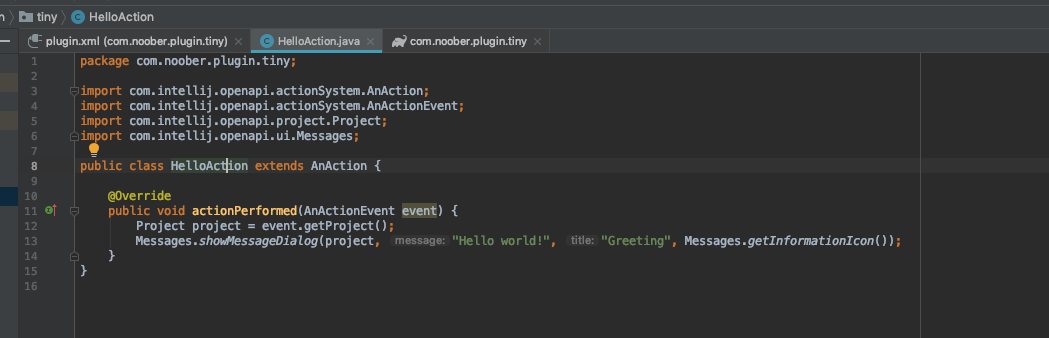
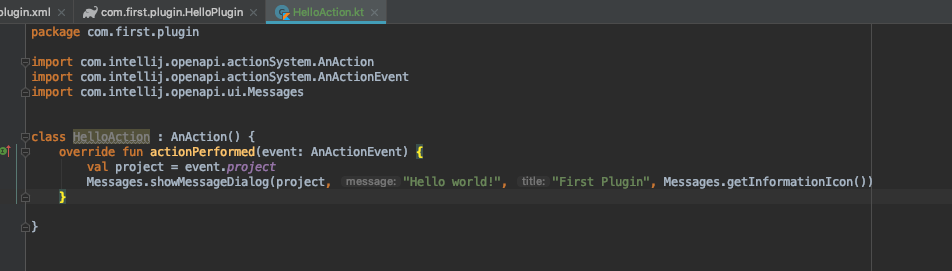
增加HelloAction

diff --git a/src/main/java/com/first/plugin/HelloAction.kt b/src/main/java/com/first/plugin/HelloAction.kt
@@ -1,0 +1,14 @@
+package com.first.plugin
+
+import com.intellij.openapi.actionSystem.AnAction
+import com.intellij.openapi.actionSystem.AnActionEvent
+import com.intellij.openapi.ui.Messages
+
+
+class HelloAction : AnAction() {
+    override fun actionPerformed(event: AnActionEvent) {
+        val project = event.project
+        Messages.showMessageDialog(project, "Hello world!", "First Plugin", Messages.getInformationIcon())
+    }
+
+}
